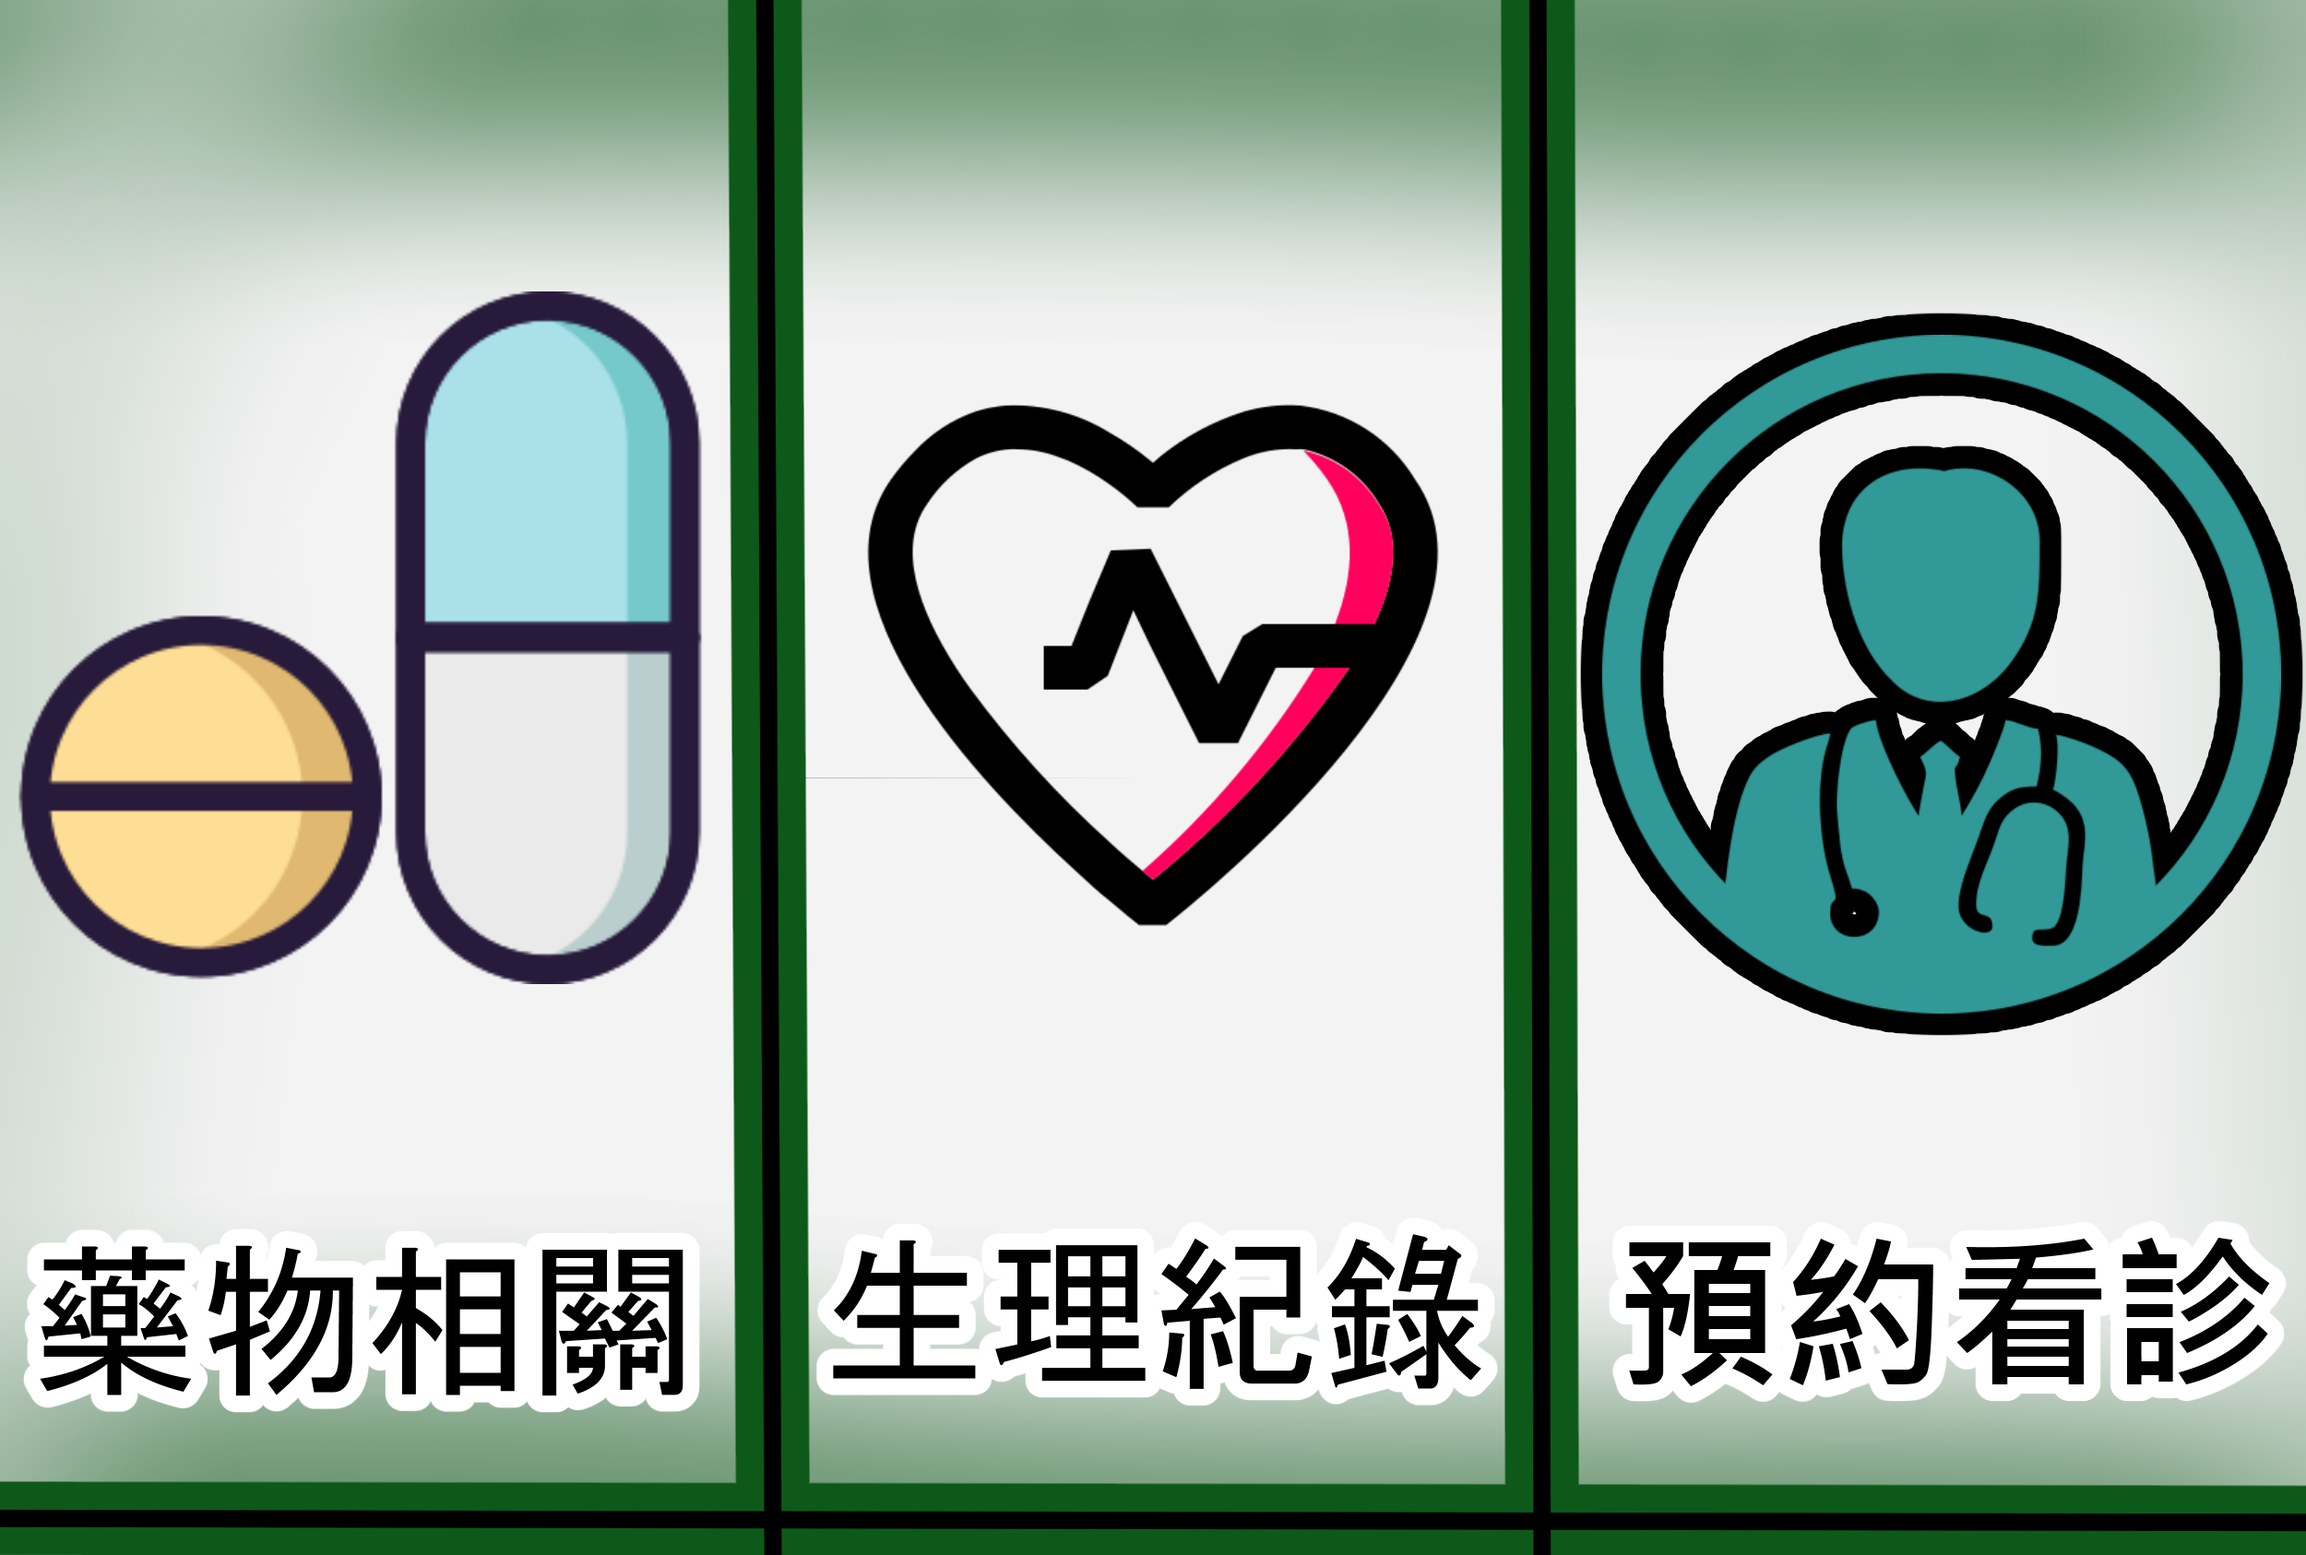
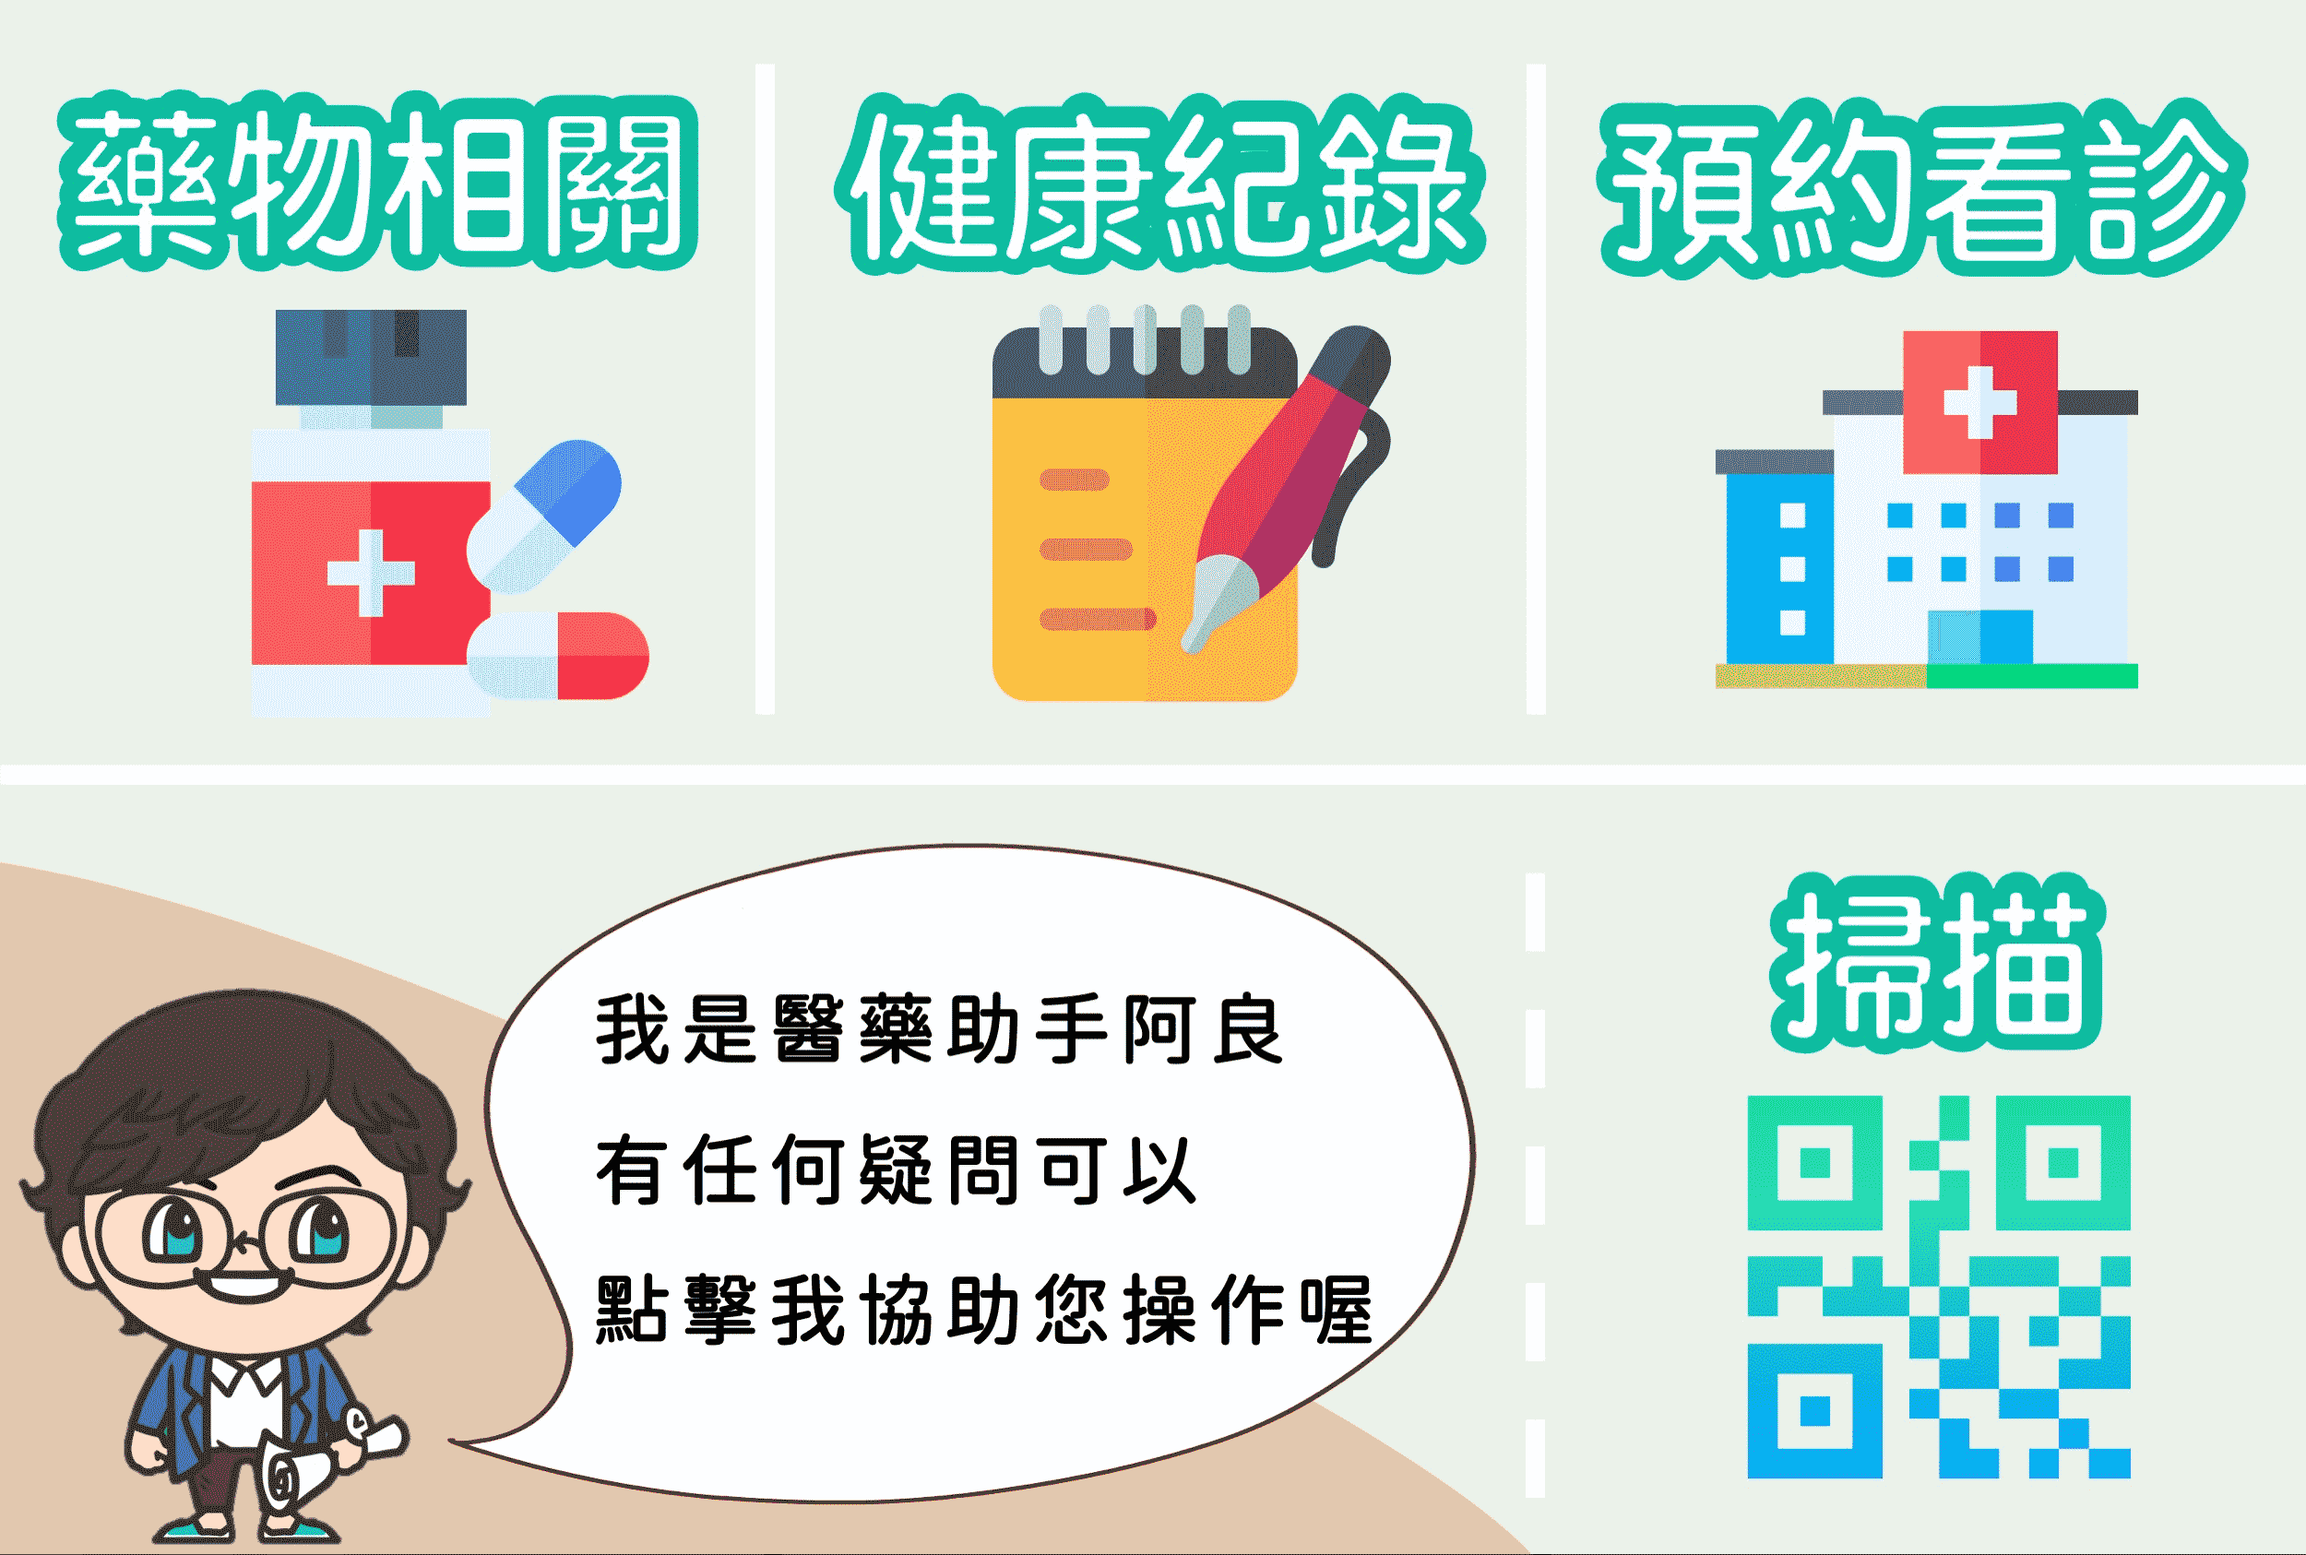
QR Code
新增掃描QR Code功能

diff --git a/app.py b/app.py
@@ -16,6 +16,7 @@ from linebot.models.send_messages import ImageSendMessage
 
 # 系統相關lib
 from threading import Timer, local
+import tempfile
 import os
 from os import environ
 import io
@@ -106,7 +107,8 @@ def handle_message_text(event):
     ,"吃藥紀錄":"showtakehistory"
     ,"線上預約":"showhospital"
     ,"新增生理紀錄":"addhealthstat_0"
-    ,"查看生理紀錄":"showhealthstat_0"}
+    ,"查看生理紀錄":"showhealthstat_0"
+    ,"掃描":"showcamera"}
 
     if _msg in msgStatus:
         userstat.SetUserStatus(user_id,msgStatus[_msg],None)
@@ -119,20 +121,49 @@ pass
 # 當圖片訊息傳入
 @handler.add(MessageEvent, message=ImageMessage)
 def handle_image_text(event):
+
+    user_id = event.source.user_id # 使用者的內部id
+
     # 取得圖片訊息(byte)並轉換成圖片形式(image)
-    value = bytearray()
     message_content = line_bot_api.get_message_content(event.message.id)
-    for chunk in message_content.iter_content():
-        value += chunk
+    with tempfile.TemporaryFile() as tmp:
+        for chunk in message_content.iter_content():
+            tmp.write(chunk)
+        img = Image.open(tmp)
+        o_msg = ""
+
+        # QR Code 資訊
+        QRText = decode(image=img)
+        print(f"Decoding QR Code:\n----------------\n{QRText[0].data}\n----------------\n")
+
+        QRData = QRText[0].data.decode("utf-8").split("\n")
+        print(QRData)
+        if QRData[0] == "QR新增提醒":
+            o_msg += "已新增提醒:\n"
+            for i in range(2,len(QRData)):
+                #名稱,類型,數量,服用,時間
+                NotifyData = QRData[i].split(",")
+                _notifyName = NotifyData[0]
+                _notifyType = NotifyData[1]
+                _notifyAmount = NotifyData[2]
+                _notifyTake = NotifyData[3]
+                _notifyTime = NotifyData[4]
+                
+                # 在使用者藥品表增加使用者的藥名如果沒有的話 (數量先設定為0如果是新的藥品)
+                findCount = db_manager.execute(f"Select Count(*) From UserMedicine Where UserID = '{user_id}' and MedicineName = '{_notifyName}'") 
+                if findCount == None or findCount[0][0] <= 0:
+                    db_manager.execute(f"Insert Into UserMedicine(UserID,MedicineName,Amount,TakeAmount) Values('{user_id}','{_notifyName}',0,1)")
+                pass
+                db_manager.execute(f"Update UserMedicine Set MedType = '{_notifyType}', Amount = {_notifyAmount}, TakeAmount = {_notifyTake} Where UserID = '{user_id}' and MedicineName = '{_notifyName}'")
+                db_manager.execute(f"Insert Into Notify(UserID,Description,TargetMedicine,TargetTime,LastNotifyDate,TakeDate) Values('{user_id}','','{_notifyName}','{_notifyTime}','','尚未吃過藥')")
+                o_msg += f"{_notifyTime} - [{_notifyType}]{_notifyName}\n(單次服用數量:{_notifyTake}/剩餘數量:{_notifyAmount})\n"
+            pass
+        pass
+        #　回應
+        if o_msg != "":
+            line_bot_api.reply_message(event.reply_token,TextSendMessage(text=o_msg))
+        pass
     pass
-    
-    img = Image.open(io.BytesIO(value))
-
-    # QR Code 資訊
-    print(decode(img))
-
-    #　回應
-    #line_bot_api.reply_message(event.reply_token,ImageSendMessage(original_content_url=_oriImgUrl,preview_image_url=_preImgUrl))
 pass
 
 # 每半分鐘執行的放這

diff --git a/lib/menu_manager.py b/lib/menu_manager.py
@@ -3,6 +3,8 @@ from linebot.exceptions import LineBotApiError
 from linebot.models import RichMenu,RichMenuResponse,RichMenuArea,RichMenuBounds,RichMenuSize,MessageAction
 import json
 
+from linebot.models.actions import CameraAction
+
 class Menu_Manager:
 
     def __init__(self,DBmanager,botapi,userstats):
@@ -34,9 +36,12 @@ class Menu_Manager:
         name="main_menu",
         chat_bar_text="主頁",
         areas=[
-            RichMenuArea(bounds=RichMenuBounds(x=0, y=0, width=main_menu_size[0] / 3, height=main_menu_size[1]),action=MessageAction(label='act0', text='藥物選單')),
-            RichMenuArea(bounds=RichMenuBounds(x=834, y=0, width=main_menu_size[0] / 3, height=main_menu_size[1]),action=MessageAction(label='act1', text='生理紀錄')),
-            RichMenuArea(bounds=RichMenuBounds(x=1668, y=0, width=main_menu_size[0] / 3, height=main_menu_size[1]),action=MessageAction(label='act2', text='線上預約'))
+            RichMenuArea(bounds=RichMenuBounds(x=0, y=0, width=main_menu_size[0] / 3, height=main_menu_size[1] / 2),action=MessageAction(label='act0', text='藥物選單')),
+            RichMenuArea(bounds=RichMenuBounds(x=834, y=0, width=main_menu_size[0] / 3, height=main_menu_size[1] / 2),action=MessageAction(label='act1', text='生理紀錄')),
+            RichMenuArea(bounds=RichMenuBounds(x=1668, y=0, width=main_menu_size[0] / 3, height=main_menu_size[1] / 2),action=MessageAction(label='act2', text='線上預約')),
+            RichMenuArea(bounds=RichMenuBounds(x=0, y=843, width=main_menu_size[0] / 3, height=main_menu_size[1] / 2),action=MessageAction(label='act3', text='hi')),
+            RichMenuArea(bounds=RichMenuBounds(x=834, y=843, width=main_menu_size[0] / 3, height=main_menu_size[1] / 2),action=MessageAction(label='act4', text='hi')),
+            RichMenuArea(bounds=RichMenuBounds(x=1668, y=843, width=main_menu_size[0] / 3, height=main_menu_size[1] / 2),action=MessageAction(label='act5', text='掃描'))
             ])
         self.menu_ids["main_menu"] = self.line_bot_api.create_rich_menu(rich_menu=main_menu)
         with open("lib/MenuImg/richmenu_1628187718435_1.png", 'rb') as f:

diff --git a/lib/user_stat_manager.py b/lib/user_stat_manager.py
@@ -7,8 +7,8 @@ from .act_finddrug import FindDrugActions
 from .act_hospital import HospitalActions
 from .act_addhealthstat import AddHealthStatActions
 from .act_showhealthstat import ShowHealthStatActions
+from .act_showcamera import ShowCamera
 from .db_manager import PostgresBaseManager as dbm
-
 
 class User_Status_Manager:
 
@@ -24,6 +24,7 @@ class User_Status_Manager:
         hospitalActions = HospitalActions(DBmanager,botapi,self)
         addHealthStatActions = AddHealthStatActions(DBmanager,botapi,self)
         showHealthStatActions = ShowHealthStatActions(DBmanager,botapi,self)
+        showCamera = ShowCamera(DBmanager,botapi,self)
         self.statActions = {
             "notify_0_0":notifyActs.notify_0_0,
             "notify_0_1":notifyActs.notify_0_1,
@@ -48,7 +49,8 @@ class User_Status_Manager:
             "addhealthstat_1":addHealthStatActions.addhealthstat_1,
             "addhealthstat_2":addHealthStatActions.addhealthstat_2,
             "showhealthstat_0":showHealthStatActions.showhealthstat_0,
-            "showhealthstat_1":showHealthStatActions.showhealthstat_1
+            "showhealthstat_1":showHealthStatActions.showhealthstat_1,
+            "showcamera":showCamera.showcamera
         }
     pass
 

diff --git a/lib/act_showcamera.py b/lib/act_showcamera.py
@@ -1,0 +1,30 @@
+from linebot import (LineBotApi, WebhookHandler)
+from linebot.exceptions import (InvalidSignatureError)
+from linebot.models import (MessageEvent, PostbackEvent, TextMessage, URIAction,PostbackTemplateAction, CarouselColumn,CarouselTemplate, TemplateSendMessage,)
+from linebot.models.send_messages import TextSendMessage
+from linebot.models.actions import CameraAction
+
+class ShowCamera:   
+
+    def __init__(self,DBmanager,botapi,userstats):
+        self.db_manager = DBmanager
+        self.bot_api = botapi
+        self.userstat = userstats
+    pass
+
+    def showcamera(self,event):
+        theMenu = CarouselTemplate(columns=[])
+    
+        MenuItem_0 = CarouselColumn(
+                thumbnail_image_url="https://i.imgur.com/uMyD6TA.png",
+                title=f'掃描',
+                text=f'開啟相機拍下QR Code',
+                actions=[
+                    CameraAction(label="開啟相機")
+                ]
+            )
+        theMenu.columns.append(MenuItem_0)
+
+        self.bot_api.reply_message(event.reply_token,TemplateSendMessage(alt_text="掃描\n（電腦版可能無法顯示請直接上傳圖片）", template=theMenu))
+    pass
+pass
